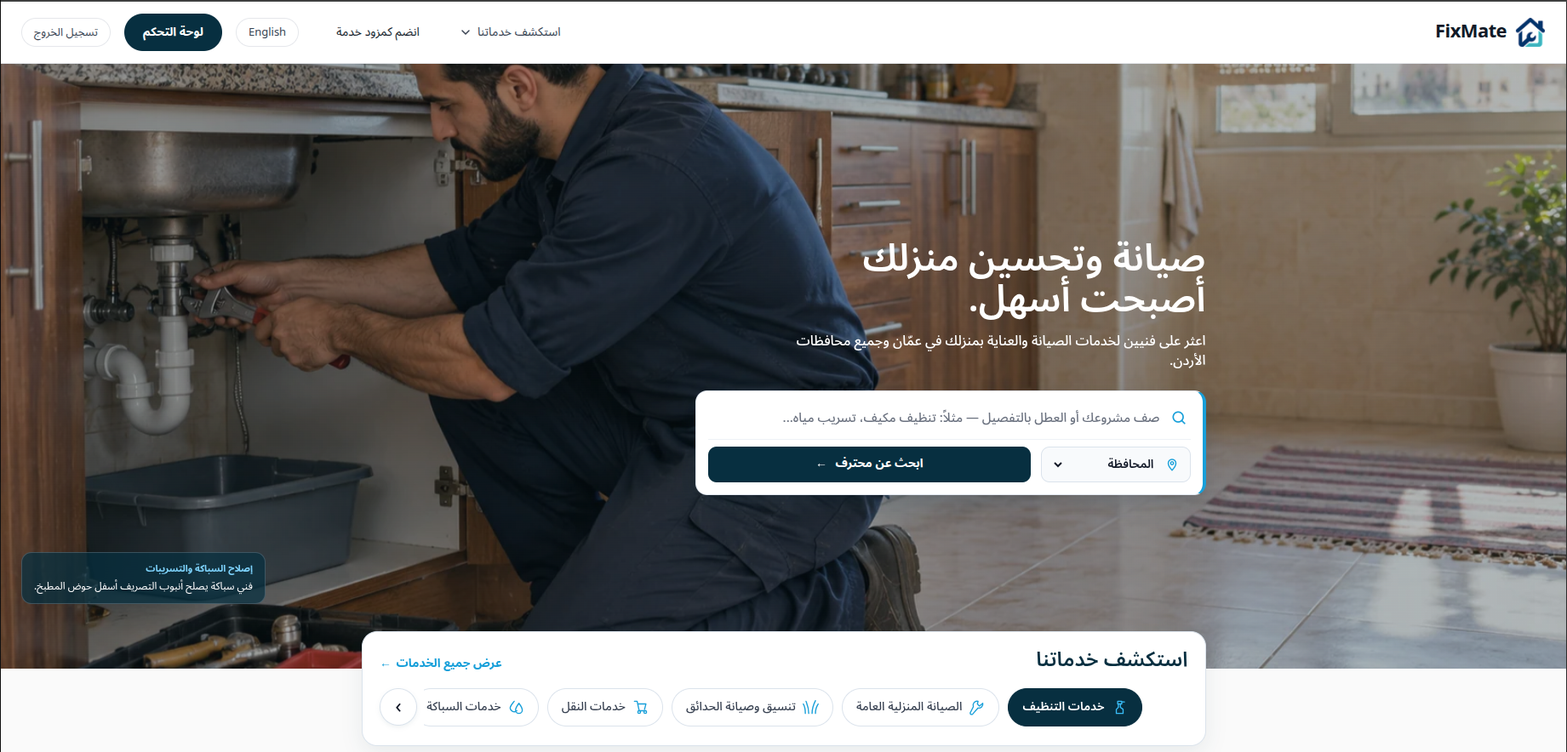
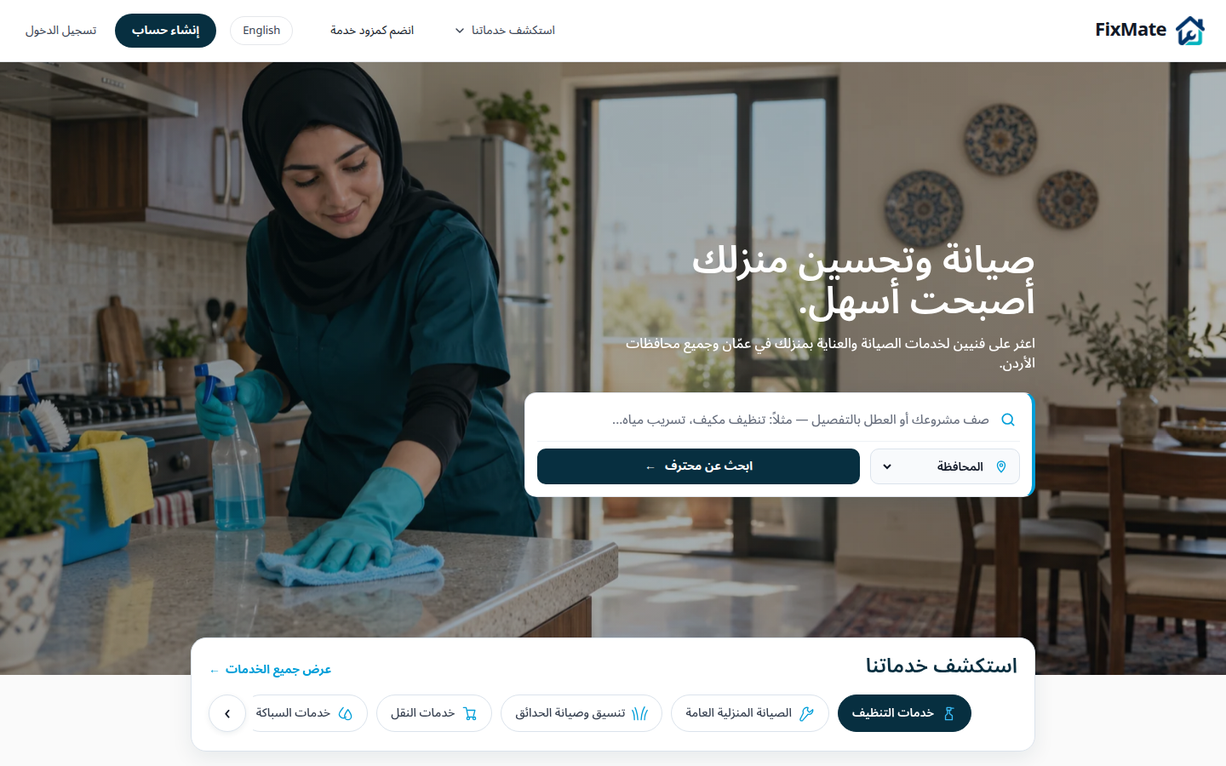
docs: add verified Atlas Render and Vercel deployment guide

diff --git a/docs/DEPLOYMENT_GUIDE.md b/docs/DEPLOYMENT_GUIDE.md
@@ -1,0 +1,218 @@
+# FixMate deployment guide: Atlas, Render and Vercel
+
+This guide applies to `deploy/atlas-vercel-render`. Nothing has been pushed or deployed by the agent. Use your own GitHub, MongoDB Atlas, Render and Vercel accounts. Start with the free options where available; review the plan summary before creating resources. No Redis, paid disk, queue, SMTP account or custom domain is required for the implemented workflows.
+
+The browser loads Angular from Vercel and calls **the same origin** at `/api/v1`. Vercel forwards that path to Render, which connects to Atlas. Angular remains a client-rendered (CSR) application; there is no SSR server to run on Vercel. Cookies are first-party to the frontend hostname, HttpOnly, Secure, SameSite=Lax, host-only and scoped to `/api/v1/auth`. The backend never sets a cookie Domain.
+
+## Values you must supply manually
+
+| Value | Where to set it | Meaning |
+| --- | --- | --- |
+| Atlas project/cluster and database user | Atlas | Dedicated database `fixmate`, user limited to `readWrite` on that database |
+| `MONGODB_URI` | Render secret | Atlas Drivers URI including database name and percent-encoded password |
+| `JWT_ACCESS_SECRET` | Render secret | Unique random signing secret, at least 32 characters; Blueprint can generate it |
+| `CORS_ORIGINS` | Render | Exact approved frontend HTTPS origin(s), comma separated, no slash/path/wildcard |
+| `RENDER_API_ORIGIN` | Vercel build environment | Real Render HTTPS origin, without `/api/v1` or trailing slash |
+| Render outbound CIDR ranges | Atlas Network Access | Copy from the actual Render service, not examples from this document |
+| Admin email and strong password | One-time trusted CLI environment | Explicit administrator provisioning, never public registration or demo seed |
+| Deployment branch | Both providers | `deploy/atlas-vercel-render` |
+
+Angle-bracket examples are instructions to replace values, not working credentials or invented service URLs. Never paste secrets in GitHub files, browser code, screenshots or support tickets. Angular does not automatically consume `.env` files. `frontend/.env.example` documents a Vercel build variable, not a browser secret.
+
+## Before creating services
+
+1. Review the local commits and this guide. Push only when you choose:
+   ```bash
+   git switch deploy/atlas-vercel-render
+   git status --short
+   git push -u origin deploy/atlas-vercel-render
+   ```
+   The cleanup branch is included as an ancestor. You can push it separately if wanted; do not merge into main automatically.
+2. Use Node 24.x (at least 24.15) and npm 11. Local verification used Node 24.21.0 and npm 11.19.0. Both lockfiles are required. There is no root package install.
+3. Verify locally from the repository root:
+   ```bash
+   npm ci --prefix backend
+   npm ci --prefix frontend
+   docker compose up -d mongodb
+   npm run build --prefix backend
+   npm run lint --prefix backend
+   npm test --prefix backend -- --runInBand
+   npm run build --prefix frontend
+   npm test --prefix frontend -- --watch=false
+   npm run test:deployment --prefix frontend
+   node frontend/tools/deployment-smoke.cjs
+   ```
+   Backend tests use local isolated test databases. The smoke script creates and deletes its own `fixmate_deployment_smoke_<pid>` loopback database; it never targets Atlas or your development `fixmate` database. It requires OpenSSL, local MongoDB and Chrome (`CHROME_PATH` overrides `/usr/bin/google-chrome`), and uses ports 3131 and 4343. It emulates the generated Vercel route order over local HTTPS. It does not prove actual Vercel forwarding. Visual captures are ignored under `artifacts/deployment/`. There is no frontend lint script; production compilation and unit tests check TypeScript/templates.
+
+## Part A — MongoDB Atlas
+
+1. Sign in to Atlas and create/select a project. Create a free cluster if offered in your account; do not select a paid tier accidentally. Choose a region near the Render service. MongoDB 7-compatible schemas and indexes are preserved; do not downgrade an existing database.
+2. Open **Database Access**, create a dedicated database user (different from your Atlas website login), and generate a strong unique password. Assign `readWrite` only on `fixmate`, rather than project-wide administrator access. Keep the credential in your password manager.
+3. In the cluster's **Connect → Drivers** dialog, choose Node.js and copy its `mongodb+srv://` URI. Replace its username/password placeholders and set the database path to `/fixmate`. Percent-encode reserved characters in the password (`@`, `:`, `/`, `#`, etc.); do not encode the whole URI. Keep the driver's TLS/default SRV options. Example shape:
+   ```text
+   mongodb+srv://<database-user>:<encoded-password>@<cluster-host>/fixmate?retryWrites=true&w=majority
+   ```
+4. Put the real URI in Render's `MONGODB_URI` secret. Never use Vercel for this value.
+5. In **Network Access**, allow the actual Render service's outbound ranges. In Render open the service, **Connect → Outbound**, copy every listed CIDR range and add them to Atlas. These are shared regional ranges, so database authentication and least privilege still matter. They are not your frontend users' IP addresses.
+6. For initial CLI initialization from your workstation, temporarily allow only your current public IP and remove it afterward. Do not select “allow access from anywhere.” This guide does not authorize `0.0.0.0/0`. Any exceptional broad-access workaround requires your explicit decision after understanding that every Internet host can attempt database authentication.
+7. After the Render service starts, check `/api/v1/health`; a 200 response with `database.status=connected` confirms readiness, not just a running process. The application attempts three connections with five-second server-selection timeouts and one-second retry delays; DNS/TLS work can affect total startup time. It exits on failure and emits sanitized advice.
+
+### Initialize collections, indexes and catalog
+
+Production disables automatic indexing. **Run this before accepting public registrations or bookings.** Unique indexes protect email/session/slot constraints; TTL indexes expire refresh records. No schema migration or data rewrite is introduced by this branch.
+
+Use a trusted terminal with the built backend and production variables supplied securely. From the repository root, read secrets without putting them in command history:
+
+```bash
+read -r -s -p 'Atlas URI: ' MONGODB_URI
+printf '\n'
+export MONGODB_URI
+read -r -s -p 'JWT signing secret: ' JWT_ACCESS_SECRET
+printf '\n'
+export JWT_ACCESS_SECRET
+read -r -p 'Frontend HTTPS origin: ' CORS_ORIGINS
+export CORS_ORIGINS
+export NODE_ENV=production
+npm run db:indexes --prefix backend
+npm run seed:catalog:prod --prefix backend
+```
+
+The backend must already have been built (`npm ci --prefix backend`, `npm run build --prefix backend`). Index initialization loads every registered schema, including project requests, and calls `createIndexes()`. It adds declared indexes and **does not drop existing indexes**. A duplicate-key failure needs deliberate investigation of existing data; do not delete records blindly or use `syncIndexes()` as a shortcut. The catalog seed is idempotent and preserves supported administrator edits. Review seed output and the live catalog. Never run `seed:demo` against production; it refuses production and is for loopback development only.
+
+For a new administrator, in the same trusted terminal:
+
+```bash
+read -r -p 'Admin email: ' ADMIN_BOOTSTRAP_EMAIL
+read -r -s -p 'Admin password: ' ADMIN_BOOTSTRAP_PASSWORD
+printf '\n'
+export ADMIN_BOOTSTRAP_EMAIL ADMIN_BOOTSTRAP_PASSWORD
+ALLOW_PRODUCTION_ADMIN_BOOTSTRAP=true npm run bootstrap:admin:prod --prefix backend
+unset ADMIN_BOOTSTRAP_EMAIL ADMIN_BOOTSTRAP_PASSWORD MONGODB_URI JWT_ACCESS_SECRET CORS_ORIGINS NODE_ENV
+```
+
+Use a unique password from a password manager, at least 10 characters including letters and numbers. Existing administrators are preserved; this is not a password-reset command. Remove any temporary workstation IP entry after initialization. Render Free may not offer a shell; the workstation route avoids relying on one. Do not run initialization on every HTTP startup or every deployment.
+
+## Part B — Render backend
+
+### Reproducible Blueprint option
+
+Connect this GitHub repository to a Render Blueprint, select branch `deploy/atlas-vercel-render`, and use root `render.yaml`. Review the proposed single **Free Web Service**. There are no paid databases/disks/workers in it. Set prompted `MONGODB_URI` and `CORS_ORIGINS`; the Blueprint generates a signing secret. Automatic deploy triggers are off. Importing a Blueprint creates services, so perform this yourself when ready.
+
+### Equivalent manual option
+
+Create **New → Web Service**, connect `FixMate-web/FixMate`, and use:
+
+| Field | Value |
+| --- | --- |
+| Branch | `deploy/atlas-vercel-render` |
+| Root directory | `backend` |
+| Runtime | Node |
+| Plan | Free |
+| Build command | `npm ci --include=dev && npm run build` |
+| Start command | `npm run start:prod` |
+| Health check path | `/api/v1/health` |
+| Automatic deployments | Off initially |
+
+Set these environment variables:
+
+```dotenv
+NODE_ENV=production
+NODE_VERSION=24.21.0
+MONGODB_URI=<real Atlas Drivers URI>
+CORS_ORIGINS=<exact frontend HTTPS origin>
+JWT_ACCESS_SECRET=<unique random secret of at least 32 characters>
+JWT_ACCESS_TTL_SECONDS=900
+REFRESH_SESSION_TTL_DAYS=7
+```
+
+Let Render provide `PORT`; do not hardcode it. The compiled server binds `0.0.0.0`. Build-time dev dependencies are needed for Nest/TypeScript compilation; the production process is `node dist/main`, not a watcher. Do not copy `.env` or `.env.demo.local` to the service.
+
+If the final frontend hostname is not known yet, create the Vercel project first to obtain its assigned production domain (its first build can remain unsuccessful until the backend URL is supplied). Configure that exact origin before opening the application to users. Do not invent a hostname or temporarily use wildcard CORS.
+
+Generate a signing secret yourself when using manual setup:
+
+```bash
+node -e "console.log(require('node:crypto').randomBytes(48).toString('hex'))"
+```
+
+Copy it only into the provider secret field. Deploy manually. Logs should show normal Nest route registration and listening on the assigned port. Database failures print generic connectivity advice; check the secret fields privately, never add URI logging. Obtain the actual HTTPS backend URL from Render. Open:
+
+```text
+https://<actual-render-host>/api/v1/health
+https://<actual-render-host>/api/v1/health/live
+```
+
+Readiness returns 200 only while Mongoose is connected, otherwise 503 with safe database state. `/health/live` checks process liveness independently. No credentials or connection details are included. Trust-proxy is restricted to the nearest ingress hop; do not replace it with unrestricted `true`. Verify client-IP/throttling behavior on the actual Render/Vercel chain: shared proxy IPs can conservatively share login rate limits.
+
+### Free-service operating limits
+
+Render Free can sleep after inactivity, causing a slow initial API request. Local storage is ephemeral and restarts lose local files. FixMate currently stores domain data and notifications in MongoDB, and serves bundled frontend assets from Vercel; it has no implemented user-upload persistence dependency. Do not add uploads to the Render filesystem later without a separate storage design. No Redis/BullMQ/SMTP/WebSocket service is required. Email is a development stub and is suppressed in production; no email/SMS delivery or password-reset delivery is promised. Stale booking expiry is triggered by implemented booking service operations, not an independent cron worker. Sleeping services cannot perform continuous jobs. Availability, backups, account quotas and monitoring remain your operating responsibilities.
+
+## Part C — Vercel frontend
+
+1. Import the same GitHub repository as a new Vercel project. Set production branch to `deploy/atlas-vercel-render` (Git/Environments settings as applicable).
+2. Set **Root Directory** to `frontend`. Framework preset: **Other**, because this project explicitly emits Vercel Build Output API v3; do not add SSR or a framework-specific adapter. Choose Node **24.x**.
+3. `frontend/vercel.json` supplies install `npm ci` and build `npm run build:vercel`. Leave the **Output Directory override disabled**. The build emits `.vercel/output/config.json` and `.vercel/output/static/`, which Vercel consumes directly. The underlying Angular browser output was verified at `frontend/dist/fixmate-frontend/browser/`; the generator copies that directory. Do not set a Next.js output directory or serve the parent `dist` directory.
+4. Add **`RENDER_API_ORIGIN`** to the Production build environment. Use the actual Render origin, for example the shape `https://<actual-render-host>`, without trailing slash or API path. It is public routing information. Missing/invalid configuration intentionally fails the Vercel build with an actionable error. No production URL is hardcoded in browser source.
+5. Deploy. The build runs Angular's production compiler, then `tools/vercel-output.cjs` writes routing and static output using the real environment value. `/api/v1/*` proxies to Render before filesystem and SPA rules. Other `/api` paths return 404. Existing assets resolve normally; missing chunks/images return 404. Known application routes fall back to `index.html`, preserving deep-link refreshes. There are no Vercel Functions or extra paid services.
+6. Visit `/`, `/services`, a real `/services/<slug>`, `/providers`, `/auth/login`, and authenticated dashboard routes directly and refresh each. Verify logo, fonts and photographs. Check that `/images/nonexistent.webp` remains 404 and `/api/v1/health` returns API JSON instead of HTML.
+7. Confirm the browser Network panel shows API calls to the **Vercel origin `/api/v1`**, never localhost or a direct cross-site Render URL. The Render destination appears only in generated platform routing config.
+
+For a local packaging check, after supplying the real value in your shell:
+
+```bash
+export RENDER_API_ORIGIN='https://<actual-render-host>'
+npm run build:vercel --prefix frontend
+unset RENDER_API_ORIGIN
+```
+
+This builds files only; it does not deploy. Do not commit `.vercel` linkage or output. Both are ignored.
+
+## Part D — Connect and verify authentication
+
+1. Put the actual Render origin in Vercel's `RENDER_API_ORIGIN` and the actual Vercel frontend origin in Render's `CORS_ORIGINS`. Restart/redeploy Render after backend settings change. Rebuild/redeploy Vercel after its build variable changes. Keep old approved origins only during a deliberate domain transition.
+2. Use a dedicated test account and inspect the browser cookie after login. `fixmate_rt` must be HttpOnly, Secure, SameSite=Lax, host-only to the frontend, and Path `/api/v1/auth`. It must not be visible in `document.cookie`. No JWT/refresh token belongs in localStorage or sessionStorage.
+3. Verify registration, login, customer/provider/admin navigation, catalog search, governorate filtering, service details, provider onboarding/approval, profile updates and existing booking/request flows. Test RBAC with separate accounts, not by editing browser state. A provider needs administrator approval and an offering before appearing publicly.
+4. Refresh an authenticated dashboard: in-memory access state is restored through cookie rotation. After access expiry, an authenticated API request should get a fresh session and retry once. Confirm the rotated cookie changes. Logout should clear the cookie and revoke its refresh family; expired/revoked/replayed refresh tokens must fail. Integration tests exercise those cases locally.
+5. Render rejects refresh/logout requests without `X-Requested-With: FixMateClient` and, in production, without an allowed Origin or Referer. Vercel forwarding must preserve the browser's origin. Test an invalid Origin and expect 403. Never widen allowed origins to “fix” a broken proxy.
+6. Responses from the backend and API proxy use `Cache-Control: no-store`. Inspect actual Vercel headers (`Age`/`x-vercel-cache`) and verify login/refresh/private responses are not reused across accounts. Do not enable external rewrite caching for API/session paths.
+7. Repeat in current Chrome, Firefox and Safari, including third-party-cookie blocking/private modes. The selected proxy uses first-party cookies, avoiding a dependency on third-party-cookie permission. The local HTTPS smoke check enables Chrome's third-party-cookie phaseout switch; actual platform and other-browser checks remain pending.
+
+Do not replace the proxy with a direct `vercel.app → onrender.com` browser API URL while leaving Lax cookies. Those are different sites. A direct cross-site alternative would require Secure/SameSite=None cookies, credentialed requests and explicit origin protections, **and can still fail when third-party cookies are blocked**. This branch intentionally uses the proxy and keeps Lax. Custom same-site domains are another future option; no DNS purchase is needed for the proxy setup.
+
+Preview deployments have distinct origins. Do not broadly trust every `*.vercel.app` site or automatically connect arbitrary previews to production data. Enable only explicit approved origins, preferably against an isolated test backend/database. Keep deployment protection and account access appropriate to your project.
+
+## Part E — Troubleshooting
+
+| Symptom | Practical checks |
+| --- | --- |
+| MongoDB server selection fails | Check actual Render outbound CIDRs in Atlas Network Access, cluster status, URI database path and database-user permissions. Check each range; do not use frontend client IPs. |
+| Authentication failed in MongoDB | Use an Atlas **database** user, not your Atlas website login. Check password encoding and authSource options from the Drivers URI. Rotate a suspected exposed password. |
+| SRV/DNS error | Check the copied cluster hostname and DNS/SRV availability from the connecting environment. Do not disable TLS or hardcode a discovered cluster IP. |
+| TLS/certificate error | Use the Drivers SRV URI and supported Node version; inspect local DNS/network interception and clock. Do not set invalid-certificate bypass flags. |
+| Backend fails before listening | Check required variables and Node 24.21.0. Production rejects missing CORS origins, HTTP/localhost/wildcard origins and example/short signing secrets. |
+| Render cannot find dist/main | Root must be `backend`; run the documented build with dev dependencies included, then `npm run start:prod`. Do not start a watcher. |
+| Port/health failure | Let Render supply PORT; server binds 0.0.0.0. Health path includes `/api/v1`. A 503 means database readiness failed; `/health/live` only proves the process runs. |
+| Empty service catalog | Run the catalog seed against the same Atlas database, after creating indexes; verify active catalog records. Do not seed demonstration providers. |
+| Duplicate key/index error | Inspect existing data and declared schema indexes. Resolve duplicates through an explicit migration; the initialization command never drops indexes. |
+| CORS error or refresh 403 | Allow the exact frontend origin without slash/path. Check Origin/Referer forwarding and `X-Requested-With`. Never combine wildcard CORS with credentials. |
+| Cookie not stored or reload logs out | Confirm HTTPS and proxy requests to frontend `/api/v1`, cookie host/path/Secure/Lax, no Domain attribute, and no cached Set-Cookie response. Direct cross-site requests are unsupported by this configuration. |
+| Refresh 401 after rotation | Check expiry/revocation and whether an old token was replayed. Replaying revokes its family by design. Sign in again; do not disable replay detection. Avoid parallel refreshes across independent tabs with stale cookie state. |
+| Logout during network failure | Server revocation cannot complete while offline. Restore connectivity and retry; clear the site cookie if necessary. Access tokens expire naturally, and account suspension is checked by the server. |
+| Vercel build says RENDER_API_ORIGIN invalid | Set it for the environment being built; use an HTTPS origin only. Angular does not read arbitrary API_BASE_URL variables. Redeploy after changes. |
+| Vercel page refresh 404 | Root is frontend, framework Other, build:vercel command, output override off. Inspect `.vercel/output/config.json` and ensure deployment contains Build Output API output. |
+| API response is HTML | Verify `/api/v1` routing precedes SPA handling; do not add a global catch-all above API routes. Check the Render origin and API prefix. |
+| Missing asset/chunk | Confirm output includes Angular's browser directory and hashed assets. Redeploy the complete build; missing assets should remain 404. |
+| Node/build dependency failure | Run npm ci with lockfiles, Node 24.x and npm 11; backend compilation needs dev dependencies. Inspect the first compiler error rather than hiding it. |
+| Login 429 | Wait for the rate window and inspect the real ingress/client IP behavior. Nearest-proxy trust is conservative; do not trust arbitrary forwarded headers. |
+| Slow first request | Render Free cold start can delay health/auth/catalog. Retry once the backend is awake; do not manufacture success or keep a paid worker running without a decision. |
+
+## Security and live release gates
+
+No real `.env` files are tracked; available Git history contains only environment examples. Current source/history scans found no apparent real credential exposure, but this is not proof against every possible secret. Rotate any credential you know was shared or committed; history was not rewritten. Production admin bootstrap remains opt-in and has no public route. The refresh-family insertion/revocation race found during this audit is fixed and covered by deterministic replay and logout tests.
+
+The Multer transitive dependency is pinned to patched 2.5.0 to address [GHSA-q7qp-rjg7-q26m](https://github.com/advisories/GHSA-q7qp-rjg7-q26m). The remaining low-severity deepmerge advisory affects backend build/test tooling; [the upstream advisory lists no patch](https://github.com/advisories/GHSA-gcqx-w48m-w2h4). Do not force an unrelated Jest/Nest major downgrade to silence audit output. Recheck advisories before release.
+
+Before making the site public: ensure indexes/catalog/admin are initialized, verify real Atlas connectivity, verify actual Vercel forwarding/cookie/cache behavior in multiple browsers, exercise approved-provider booking/request flows, and review your account quotas and monitoring. Contact/support details, Terms and Privacy wording are product-owner publication decisions; do not assume the application supplies legal policies or an operated support channel.
+
+Official references checked for this guide: [Atlas connection setup](https://www.mongodb.com/docs/atlas/connect-to-database-deployment/), [Atlas troubleshooting](https://www.mongodb.com/docs/atlas/troubleshoot-connection/), [Render Web Services](https://render.com/docs/web-services), [Render outbound addresses](https://render.com/docs/outbound-ip-addresses), [Render Node selection](https://render.com/docs/node-version), [Render health checks](https://render.com/docs/health-checks), [Render Free limits](https://render.com/docs/free), [Blueprint specification](https://render.com/docs/blueprint-spec), [Vercel Build Output API](https://vercel.com/docs/build-output-api), [Vercel routing output](https://vercel.com/docs/build-output-api/configuration), [Vercel cache controls](https://vercel.com/docs/caching/cache-control-headers). Provider UIs and plans can change; use these primary references when a label differs.

diff --git a/docs/DEPLOYMENT_VERIFICATION.md b/docs/DEPLOYMENT_VERIFICATION.md
@@ -1,0 +1,66 @@
+# FixMate deployment engineering report — 2026-10-30
+
+## Git and scope
+
+- Original branch: `feat/partial-hero-discovery-integration`, original HEAD `337cb6a`; working tree was clean, including untracked files.
+- Cleanup branch: `chore/remove-reference-assets`, commit `e21974b`.
+- Deployment branch: `deploy/atlas-vercel-render`, code/configuration commit `52aec65`, followed by the documentation/report commit.
+- Deployment branch contains the cleanup commit. Original branch and main were not modified. Nothing was pushed, merged or deployed. Local real environment files were preserved and remain ignored.
+- `AGENT_SWITCH_HANDOFF.md` was absent; consolidated/phase handoffs and current implementation were inspected. Existing features were retained rather than rebuilt.
+
+## Reference cleanup and homepage
+
+See [cleanup inventory](REFERENCE_CLEANUP.md) and the cleanup commit for exact deleted paths. Removed 15 inspiration screenshots, their analysis manifest, duplicate logo copy, two reference-only documents, 187 tracked temporary design/evidence files and four undocumented/unused legacy images. Preserved the original production logo, functional image assets, photography/font license records, development handoffs and generation provenance (moved into docs). About now uses documented stock photography. The README homepage capture was refreshed after cleanup.
+
+Removed `.hero-caption-pill`, its title/description, styles, homepage state and slideshow event output, plus unused per-slide caption metadata. Affected components: `HomePageComponent`, `HeroSlideshowComponent`, `hero-slides.ts`, and their verification. The seven generated scenes, zoom, fade, foreground search/headline and overlapping `.discovery-transition` card remain. Source contains no competitor-brand references.
+
+Retained stock images have documented Unsplash/Pexels sources; fonts retain their licenses. The user-supplied logo's rights were not independently established. Generated scenes are illustrative, with no claim of exclusive rights. Historical verification reports may refer to captures removed during cleanup.
+
+## Production changes
+
+- MongoDB Atlas SRV URI support remains environment-driven through `MONGODB_URI`; local MongoDB is preserved. Connection attempts/timeouts are bounded and errors are sanitized before Nest/Mongoose retry logging. Initial failure exits instead of serving an unready API.
+- Added compiled `db:indexes` initialization for all registered schemas. Uses additive `createIndexes()`, never drops existing indexes. Required before public use because production autoIndex is disabled. Catalog/admin compiled CLI commands are available; production needs explicit DB configuration and existing admin opt-in.
+- Added a single Free Render service Blueprint, backend root, reproducible build, production start, health path, Node version and secret inputs. Backend binds Render PORT on 0.0.0.0 and trusts the nearest ingress hop.
+- `/api/v1/health` now responds 503 when the database is unavailable; `/api/v1/health/live` distinguishes process liveness.
+- Added Vercel Build Output API v3 packaging for existing Angular CSR output. `RENDER_API_ORIGIN` generates an external API proxy at build time, with API-first routing, filesystem handling and application-route fallback. Missing assets and unsupported API prefixes stay 404. Ordinary local Angular development is unchanged. Browser production output contains no localhost/loopback strings.
+- Production config rejects missing/default/wildcard/non-HTTPS frontend origins and placeholder/short signing secrets. Production refresh/logout require an origin or Referer plus the existing custom header. Cookies remain Secure/HttpOnly/Lax, host-only, auth-path scoped; access tokens remain in memory. API responses explicitly use no-store.
+- Fixed a demonstrated refresh race: family revocation could complete before a concurrent successor insertion. Family reasons now mark ancestors as well, and a post-insertion predecessor check revokes any successor that escaped an in-flight replay/logout. Deterministic regression tests cover both cases without a schema change or replica-set requirement.
+- Tightened frontend bearer-token URL matching to exact API origin/path boundaries and removed an unnecessary retry header. Production no longer registers the UI showcase route. Development email-stub logging is suppressed in production.
+- Patched transitive Multer to 2.5.0 through a targeted override, retaining NestJS 11. No new application dependencies or paid resources were introduced.
+
+## Executed verification
+
+All final checks below passed unless explicitly qualified.
+
+| Check | Command / method | Result |
+| --- | --- | --- |
+| Reproducible dependency install | `npm ci --prefix backend`, `npm ci --prefix frontend`; backend reinstalled after lock update | Pass; native bcrypt and Angular compilation exercised successfully |
+| Backend compilation | `npm run build --prefix backend` | Pass |
+| Backend lint | `npm run lint --prefix backend` | Pass, no warnings |
+| Backend unit/integration | `npm test --prefix backend -- --runInBand` | 10 suites, **52 tests passed** against local MongoDB |
+| Frontend production compilation | `npm run build --prefix frontend` | Pass; actual browser output `frontend/dist/fixmate-frontend/browser` |
+| Frontend unit/component tests | `npm test --prefix frontend -- --watch=false` | 11 files, **41 tests passed** |
+| Frontend lint | Package-script inspection | No frontend lint command configured; no lint pass claimed |
+| Deployment routing tests | `npm run test:deployment --prefix frontend` | **2 tests passed** |
+| Vercel production packaging | `RENDER_API_ORIGIN=https://api.example.com npm run build:vercel --prefix frontend` | Pass; reserved example origin only in ignored test output, not a real destination |
+| Hosting configuration schemas | Render published schema; Vercel published configuration/route schemas | Pass locally; no provider-account/API validation or deployment performed |
+| Hero browser verification | `node frontend/tools/service-hero-review.cjs` | Seven scenes plus natural wraparound in EN/AR desktop and mobile; 12 responsive widths/directions, reduced motion, no visible zoom resets, broken hero images or page errors; overlay absent and discovery card present |
+| Production HTTPS browser smoke | `node frontend/tools/deployment-smoke.cjs` | Built frontend → local HTTPS proxy emulating generated routes → production-mode Nest → isolated local MongoDB; all checks passed |
+| Startup failure and log hygiene | Compiled backend with an unreachable loopback URI containing sentinel credentials | Exit 1 in **17.4 seconds**; credentials, URI and signing secret absent from captured logs |
+| Dependency audit | npm audit for both applications; backend also `--omit=dev` | Frontend: 0; backend runtime: 0; backend all dependencies: **9 low** development-tooling findings, no high/critical |
+| Secret/history hygiene | Tracked-file review, env history paths, pattern scan of 283 historical text blobs | Only environment examples tracked; no high-confidence credential-pattern hits; no history rewriting |
+| Git whitespace | `git diff --check` | Pass |
+
+Backend integration coverage includes registration/login/profile, account suspension and RBAC, production cookie flags, invalid/missing origins, expired access and refresh tokens, rotation/replay/logout, deterministic revocation races, authentication throttling, provider onboarding/moderation, catalog management/search, address ownership, booking idempotency and concurrent slot acceptance, full booking/review/notification lifecycle, and project requests/response/cancellation/ownership.
+
+The production browser smoke verifies eight public/auth route refreshes, service details, search, governorate filtering, customer/provider registration forms, login forms and all three role dashboards, protected profile requests, refresh/cookie rotation, dashboard reload, logout and RBAC. It tests first-party Secure cookies with Chrome's third-party-cookie phaseout switch enabled. It initializes indexes and verifies slot uniqueness. It reports no uncaught runtime errors, unexpected console errors or failed page assets. Screenshots were inspected at desktop/mobile sizes. It removes only its own new test database and temporary TLS files.
+
+Resolved failures during this work: an early hero review was interrupted by development hot reload while files were still changing; rerun after stable files passed. An initial smoke harness used Node's DNS resolver for a browser-only mapped hostname; switching its final probes to browser fetch resolved that harness error. The deterministic security regression failed against the old refresh code (200 after family revocation) and passes with the fix. No tests were disabled to achieve the final results; authentication rate windows are reset between isolated test cases and a separate case verifies the real 429 limit.
+
+## Remaining external checks and owner actions
+
+Engineering/configuration work is complete locally. Follow [DEPLOYMENT_GUIDE.md](DEPLOYMENT_GUIDE.md) for exact setup and commands. You must supply Atlas/hosting accounts, database credentials, actual service origins and Render outbound CIDRs, initialize indexes/catalog and explicitly provision an administrator. No final service URL or credential was invented.
+
+Live Atlas DNS/TLS/network permissions, actual Render startup/health/cold starts, Vercel external forwarding of Origin/Cookie/Set-Cookie, CDN no-store behavior, real client-IP throttling behavior and Firefox/Safari/private-mode behavior remain **unverified on hosted services**. Rehearse major workflows with approved providers in the deployed environment before public launch. Full first-party-cookie blocking cannot preserve a cookie session; frontend tests verify safe unauthenticated behavior when refresh fails. Direct cross-site cookie deployment is not the configured architecture.
+
+The remaining deepmerge advisory has no upstream patch listed and is confined to development/build tooling. Track it without a forced Jest/Nest downgrade. There is no implemented persistent upload, Redis/queue, SMTP or WebSocket dependency. Render Free does not provide always-on jobs or durable filesystem storage. Product-owner publication work includes choosing support contacts, policies and operational monitoring/backups. None of these were represented as completed live work.

diff --git a/README.md b/README.md
@@ -29,7 +29,7 @@ The application uses a standalone Angular frontend and a modular NestJS REST API
 
 The Arabic homepage brings service photography, project search, governorate selection, and category discovery into one flow.
 
-![FixMate Arabic homepage showing plumbing service photography, project search, and category navigation](docs/screenshots/homepage-ar.png)
+![FixMate Arabic homepage showing cleaning service photography, project search, and category navigation](docs/screenshots/homepage-ar.png)
 
 ### Service catalog · دليل الخدمات
 
@@ -399,7 +399,7 @@ Other scripts in `frontend/tools/` and older verification reports may target ear
 - Passwords use **bcrypt with cost 12**.
 - Short-lived JWT access tokens are held in frontend memory, not browser local/session storage.
 - Refresh sessions use the **`fixmate_rt` HttpOnly cookie**, database-backed rotation, and replay detection. The cookie is scoped to `/api/v1/auth`, uses `SameSite=Lax`, and is marked `Secure` in production.
-- Cookie-based refresh and logout require the `X-Requested-With: FixMateClient` header and an allowed origin when an origin is present.
+- Cookie-based refresh and logout require the `X-Requested-With: FixMateClient` header and an allowed origin (or Referer); production requires one of these origin headers.
 - Server-side JWT, role, account-status, and ownership checks enforce authorization. Angular guards provide navigation behavior, not the security boundary.
 - CORS, Helmet, strict DTO validation, and authentication-endpoint throttling provide additional controls.
 - Provider listing approval does not claim government certification, insurance, background clearance, or guaranteed workmanship.
@@ -408,7 +408,7 @@ Logout revokes the refresh-session family and clears the client's in-memory toke
 
 ## Production considerations
 
-The repository includes production build commands, but a hosted environment still needs deployment configuration:
+Deployment configuration for Atlas, Render and Vercel is included. Follow the [deployment guide](docs/DEPLOYMENT_GUIDE.md) for account setup, initialization and live verification:
 
 - Use production secrets and an appropriate MongoDB deployment; do not copy local environment files or demo data.
 - Route frontend `/api/v1` requests to NestJS. Configure SPA fallbacks for frontend routes without intercepting API requests.
@@ -430,7 +430,7 @@ The repository includes production build commands, but a hosted environment stil
 | Dashboards and notifications | [Dashboard verification](docs/PHASE4_DASHBOARDS_VERIFICATION.md), [Notifications verification](docs/PHASE5_ADVANCED_VERIFICATION.md) |
 | Jordanian pricing | [Pricing research and assumptions](docs/jordan-service-pricing-research.md) |
 | Design and photography | [Design system](docs/02-ui/DESIGN_SYSTEM.md), [Image sources](docs/image-sources.md), [Discovery image sources](docs/discovery-image-sources.md) |
-| Deployment assessment | [Release-readiness notes](docs/PHASE6_RELEASE_READINESS.md) |
+| Deployment | [Atlas / Render / Vercel guide](docs/DEPLOYMENT_GUIDE.md), [current verification](docs/DEPLOYMENT_VERIFICATION.md) |
 
 Some documents describe earlier development phases. Their feature lists, counts, and deployment examples are historical context; current source code, package scripts, and executable tests determine actual behavior.
 

diff --git a/docs/AUTH_DESIGN.md b/docs/AUTH_DESIGN.md
@@ -90,12 +90,12 @@ FixMate strictly separates **account authentication status** (`users.status`) fr
 
 ### 4.2 Explicit CSRF Defense on Cookie-Authenticated Endpoints
 Because CORS alone does not prevent Cross-Site Request Forgery on cookie-bearing `POST` requests, `POST /api/v1/auth/refresh` and `POST /api/v1/auth/logout` enforce two layers of CSRF defense (`CsrfOriginGuard`):
-1. **`Origin` / `Referer` Allowlist Check:** If an `Origin` or `Referer` header is present, its origin must match one of the configured `CORS_ORIGINS` (e.g., `http://localhost:4200`). Any mismatched browser origin is rejected with `403 Forbidden`.
+1. **`Origin` / `Referer` Allowlist Check:** Production requires an `Origin` or `Referer`; its origin must match one of the configured `CORS_ORIGINS` (e.g., `http://localhost:4200`). Any mismatched browser origin is rejected with `403 Forbidden`.
 2. **Custom Header Requirement (`X-Requested-With: FixMateClient`):** Requests must include `X-Requested-With: FixMateClient`. HTML `<form>` submissions and simple cross-site requests cannot set custom headers without triggering a CORS preflight, which the server denies for untrusted origins.
 
 ### 4.3 Local vs. Production Deployment Topology Note
 - **Local Development:** `http://localhost:4200` (Angular) and `http://localhost:3000` (NestJS) are considered **same-site** by modern browsers (`localhost`), so `SameSite=Lax` cookies work seamlessly with `withCredentials: true`.
-- **Production Cloud Prerequisite (Vercel + Render):** Deploying frontend on `*.vercel.app` and backend on `*.onrender.com` places them on different eTLD+1 public suffixes, where browsers block third-party cookies. For production deployment (future phase), either:
+- **Production Cloud Prerequisite (Vercel + Render):** Deploying frontend on `*.vercel.app` and backend on `*.onrender.com` places them on different eTLD+1 public suffixes, where browsers block third-party cookies. The current deployment branch implements option 1 below; see [the deployment guide](DEPLOYMENT_GUIDE.md). For other topologies, either:
   1. Configure a Vercel rewrite rule (`/api/v1/:path*` → Render backend URL) so the browser communicates same-origin, **or**
   2. Host under a shared custom domain (`app.fixmate.jo` and `api.fixmate.jo`).
 
@@ -123,3 +123,7 @@ In Phase 2, local MongoDB runs as a single container without requiring a multi-n
 
 ## 7. Explicitly Deferred Auth Features (Phase 4)
 - **Email Verification & Password Reset Emails:** Because SMTP/Nodemailer and BullMQ background workers belong to Phase 4, Phase 2 does **not** expose fake "verification email sent" or "password reset link emailed" screens.
+
+## Rotation and family-revocation concurrency
+
+Family revocation marks ancestors as well as active sessions, preserving original revocation timestamps. After inserting a rotated successor, refresh verifies that its predecessor still has the ROTATED reason; if replay or logout revoked the family during insertion, the successor is revoked and the request returns 401. This closes the in-flight successor race without changing the stored schemas or requiring replica-set transactions. Deterministic integration tests pause insertion and exercise both replay and logout during that window.

diff --git a/docs/VISUAL_FIDELITY_RECOVERY.md b/docs/VISUAL_FIDELITY_RECOVERY.md
@@ -2,7 +2,7 @@
 
 ## Starting point and reference
 
-Started from clean `feat/premium-reference-transformation`, HEAD `621b8dc763f40e8e28602059368e06bc5e6e3646`. Changes are isolated on `fix/visual-fidelity-overhaul`. No backend implementation, schemas, authentication contracts, or application routes were replaced.
+Started from a clean working tree, HEAD `621b8dc763f40e8e28602059368e06bc5e6e3646`. Changes are isolated on `fix/visual-fidelity-overhaul`. No backend implementation, schemas, authentication contracts, or application routes were replaced.
 
 The Browser skill runtime reported “No browser is available” and an empty browser list. Installed Google Chrome was used through the existing Playwright dependency for real local rendering. Initial the design reference navigation produced a blank screenshot and its web response requested robot verification. A later ordinary navigation succeeded at desktop and mobile sizes; no restriction was bypassed. The live page and supplied screenshots were both inspected. Live computed styles confirmed a 588px hero column at x=423, 946px content width, 48px/50.4px desktop headings with the proprietary Rise font. FixMate uses independently licensed Inter instead.
 

diff --git a/docs/PHASE6_RELEASE_READINESS.md b/docs/PHASE6_RELEASE_READINESS.md
@@ -1,4 +1,6 @@
-# FixMate — Phase 6 Release Readiness, QA & Deployment Runbook (Checkpoint C7)
+# FixMate — Historical Phase 6 Release Readiness (Checkpoint C7)
+
+Current deployment instructions and results supersede the examples below: [deployment guide](DEPLOYMENT_GUIDE.md), [verification](DEPLOYMENT_VERIFICATION.md).
 
 **Timestamp:** 2026-10-29T18:41:00+03:00  
 **Scope:** Parts 21 & 22 — Comprehensive QA Verification, Security Audit & Cloud Deployment Runbook (Vercel + Render + MongoDB Atlas)
